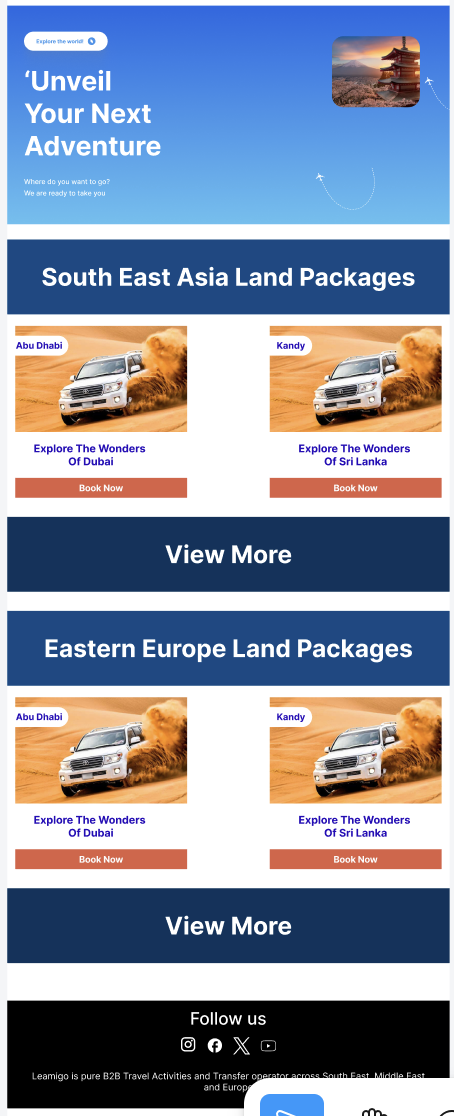
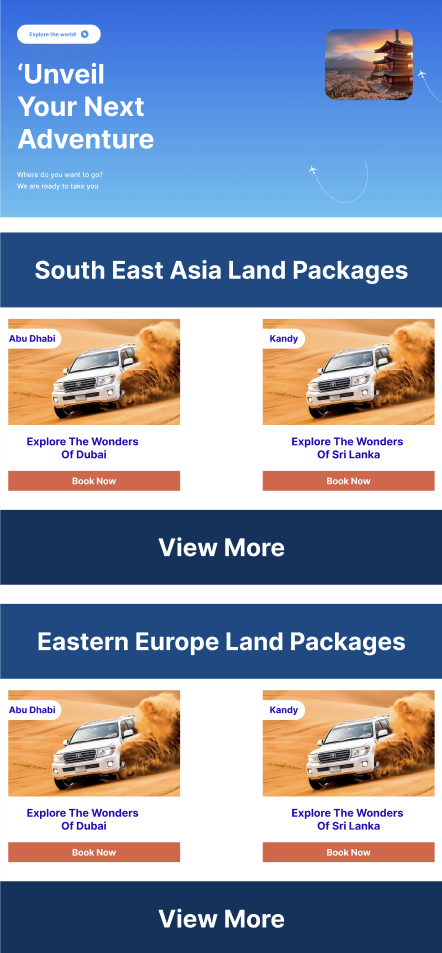
resolved comments

diff --git a/Categories/templates/travel-template-1.html b/Categories/templates/travel-template-1.html
@@ -82,13 +82,6 @@
             transform: translateY(-5px);
         }
         
-        .package-image {
-            height: 180px;
-            background-size: cover;
-            background-position: center;
-            
-        }
-        
         .package-content {
             padding: 20px;
         }
@@ -175,7 +168,7 @@
     
     <div class="packages-container">
         <div class="package">
-            <div class="package-image" style="background-image: url('../templates/assets/dubai_card.png');"></div>
+            <img src="../templates/assets/dubai_card.png" alt="Dubai" style="width:100%; height:180px; object-fit:cover;">
             <div class="package-content">
                 <div class="destination">Abu Dhabi</div>
                 <div class="description">Explore The Wonders Of Dubai</div>
@@ -184,7 +177,7 @@
         </div>
         
         <div class="package">
-            <div class="package-image" style="background-image: url('../templates/assets/dubai_card.png');"></div>
+            <img src="../templates/assets/dubai_card.png" alt="Dubai" style="width:100%; height:180px; object-fit:cover;">
             <div class="package-content">
                 <div class="destination">Kandy</div>
                 <div class="description">Explore The Wonders Of Sri Lanka</div>
@@ -203,7 +196,7 @@
     
     <div class="packages-container">
         <div class="package">
-            <div class="package-image" style="background-image: url('../templates/assets/dubai_card.png');"></div>
+            <img src="../templates/assets/dubai_card.png" alt="Dubai" style="width:100%; height:180px; object-fit:cover;">
             <div class="package-content">
                 <div class="destination">Abu Dhabi</div>
                 <div class="description">Explore The Wonders Of Dubai</div>
@@ -212,7 +205,7 @@
         </div>
         
         <div class="package">
-            <div class="package-image" style="background-image: url('../templates/assets/dubai_card.png');"></div>
+            <img src="../templates/assets/dubai_card.png" alt="Dubai" style="width:100%; height:180px; object-fit:cover;">
             <div class="package-content">
                 <div class="destination">Kandy</div>
                 <div class="description">Explore The Wonders Of Sri Lanka</div>

diff --git a/Categories/script.js b/Categories/script.js
@@ -15,7 +15,7 @@ function loadCategory(category) {
       {src: "../Images/template1.png", title: "Gym template 1", html: "gym-template-1"}
     ],
     travel: [
-      {src: "../Images/travel.png", title: "travel template 1", html: "travel-template-1"}
+      {src: "../Images/travel.png", title: "Travel template 1", html: "travel-template-1"}
     ]
     // Define other categories if needed
   };
